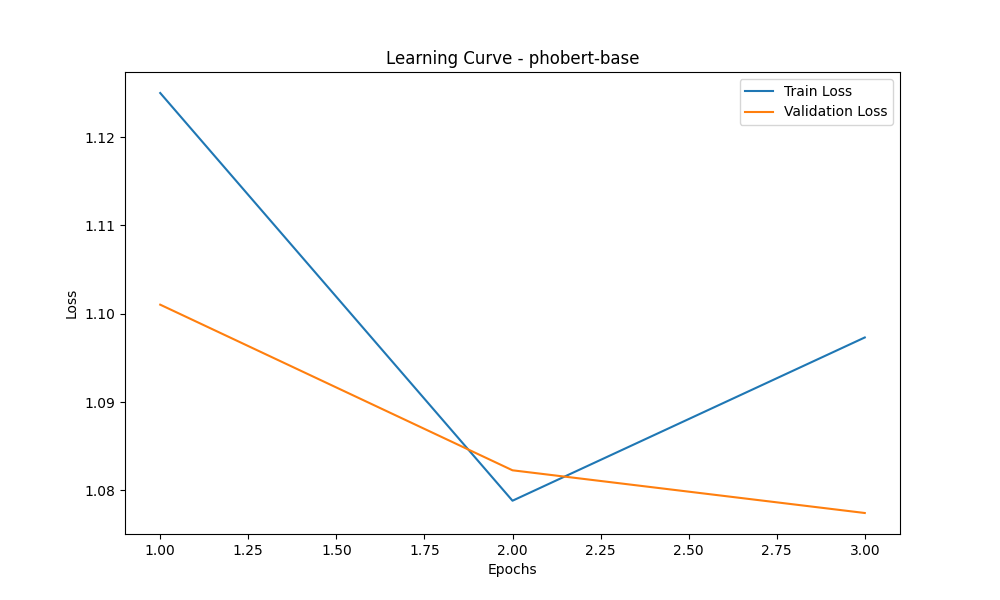
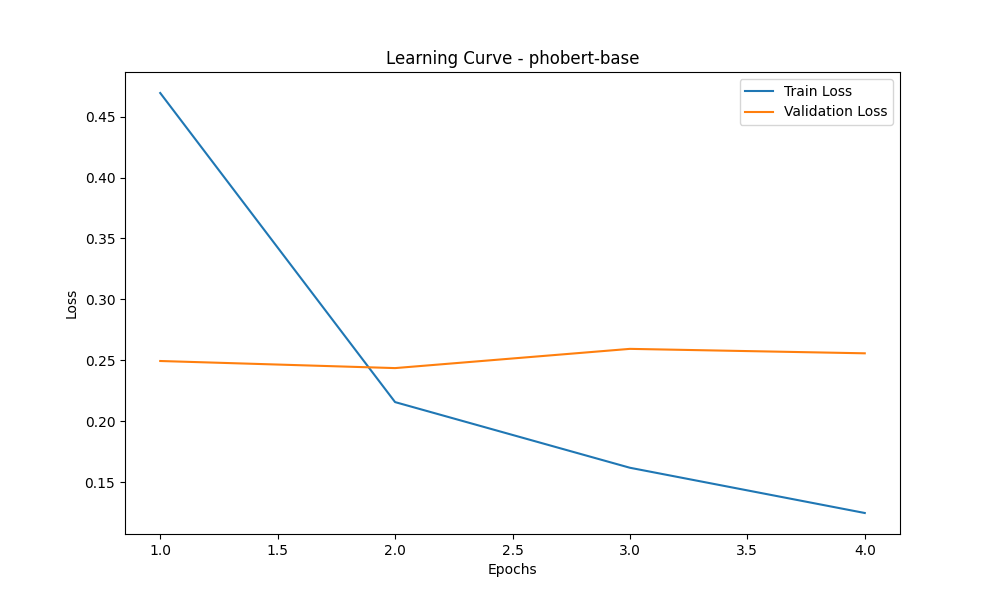
feat: implement PhoBERT training pipeline with custom Dataset and experiment logging

diff --git a/src/train.py b/src/train.py
@@ -13,6 +13,17 @@ import csv
 import matplotlib.pyplot as plt
 from sklearn.metrics import f1_score
 
+# Bypass strict torch version check for loading models with weights_only
+import transformers
+try:
+    import transformers.modeling_utils
+    if hasattr(transformers.modeling_utils, "check_torch_load_is_safe"):
+        transformers.modeling_utils.check_torch_load_is_safe = lambda: None
+    if hasattr(transformers.utils, "import_utils") and hasattr(transformers.utils.import_utils, "check_torch_load_is_safe"):
+        transformers.utils.import_utils.check_torch_load_is_safe = lambda: None
+except ImportError:
+    pass
+
 from dataset import create_data_loader
 
 def train_epoch(model, data_loader, loss_fn, optimizer, device, scheduler):
@@ -113,24 +124,46 @@ def main():
     parser.add_argument("--config", type=str, default="../config.yaml", help="Path to config file")
     args = parser.parse_args()
 
-    # Cấu hình fallback đã điều chỉnh theo kiến trúc dự án
-    config = {
+    # Cấu hình mặc định
+    train_config = {
         "model_name": "vinai/phobert-base",
         "num_classes": 3,
-        "max_length": 128,
-        "batch_size": 16,
-        "epochs": 3,
+        "max_length": 64,
+        "batch_size": 32,
+        "epochs": 4,
         "learning_rate": 2e-5,
-        "train_data": "../data/processed/train.csv",
-        "val_data": "../data/processed/val.csv",
-        "save_dir": "../models/phobert/best_checkpoint",
-        "results_dir": "../results",
-        "figures_dir": "../data/figures"
+        "weight_decay": 0.01,
+        "warmup_ratio": 0.1,
+        "train_data": "data/processed/train.csv",
+        "val_data": "data/processed/val.csv",
+        "save_dir": "models/phobert/best_checkpoint",
+        "results_dir": "results",
+        "figures_dir": "data/figures"
     }
 
     if os.path.exists(args.config):
         with open(args.config, "r", encoding="utf-8") as f:
-            config.update(yaml.safe_load(f) or {})
+            yaml_cfg = yaml.safe_load(f) or {}
+            
+            # Ghi đè từ yaml nếu có
+            if "model" in yaml_cfg:
+                train_config["model_name"] = yaml_cfg["model"].get("phobert_name", train_config["model_name"])
+            
+            if "data" in yaml_cfg:
+                train_config["num_classes"] = yaml_cfg["data"].get("num_labels", train_config["num_classes"])
+                train_config["train_data"] = yaml_cfg["data"].get("train_path", train_config["train_data"])
+                train_config["val_data"] = yaml_cfg["data"].get("val_path", train_config["val_data"])
+            
+            if "baseline" in yaml_cfg and "phobert" in yaml_cfg["baseline"]:
+                pb_cfg = yaml_cfg["baseline"]["phobert"]
+                train_config["max_length"] = pb_cfg.get("max_length", train_config["max_length"])
+                train_config["batch_size"] = pb_cfg.get("batch_size", train_config["batch_size"])
+                train_config["epochs"] = pb_cfg.get("num_epochs", train_config["epochs"])
+                train_config["learning_rate"] = float(pb_cfg.get("learning_rate", train_config["learning_rate"]))
+                train_config["weight_decay"] = float(pb_cfg.get("weight_decay", train_config["weight_decay"]))
+                train_config["warmup_ratio"] = float(pb_cfg.get("warmup_ratio", train_config["warmup_ratio"]))
+    
+    config = train_config
 
     os.makedirs(config["save_dir"], exist_ok=True)
     os.makedirs(config["figures_dir"], exist_ok=True)
@@ -155,9 +188,10 @@ def main():
         num_labels=config["num_classes"]
     ).to(device)
 
-    optimizer = AdamW(model.parameters(), lr=float(config["learning_rate"]))
+    optimizer = AdamW(model.parameters(), lr=float(config["learning_rate"]), weight_decay=float(config["weight_decay"]))
     total_steps = len(train_loader) * config["epochs"]
-    scheduler = get_linear_schedule_with_warmup(optimizer, num_warmup_steps=0, num_training_steps=total_steps)
+    warmup_steps = int(total_steps * float(config["warmup_ratio"]))
+    scheduler = get_linear_schedule_with_warmup(optimizer, num_warmup_steps=warmup_steps, num_training_steps=total_steps)
     loss_fn = nn.CrossEntropyLoss().to(device)
 
     best_val_loss = float('inf')

diff --git a/src/dataset.py b/src/dataset.py
@@ -41,7 +41,7 @@ class SentimentDataset(Dataset):
             'labels': torch.tensor(label, dtype=torch.long)
         }
 
-def create_data_loader(df, tokenizer, max_length, batch_size, text_col='text', label_col='label', shuffle=True):
+def create_data_loader(df, tokenizer, max_length, batch_size, text_col='text_plm', label_col='label_id', shuffle=True):
     """
     Hàm tiện ích giúp dễ dàng tạo DataLoader từ Pandas DataFrame.
     """